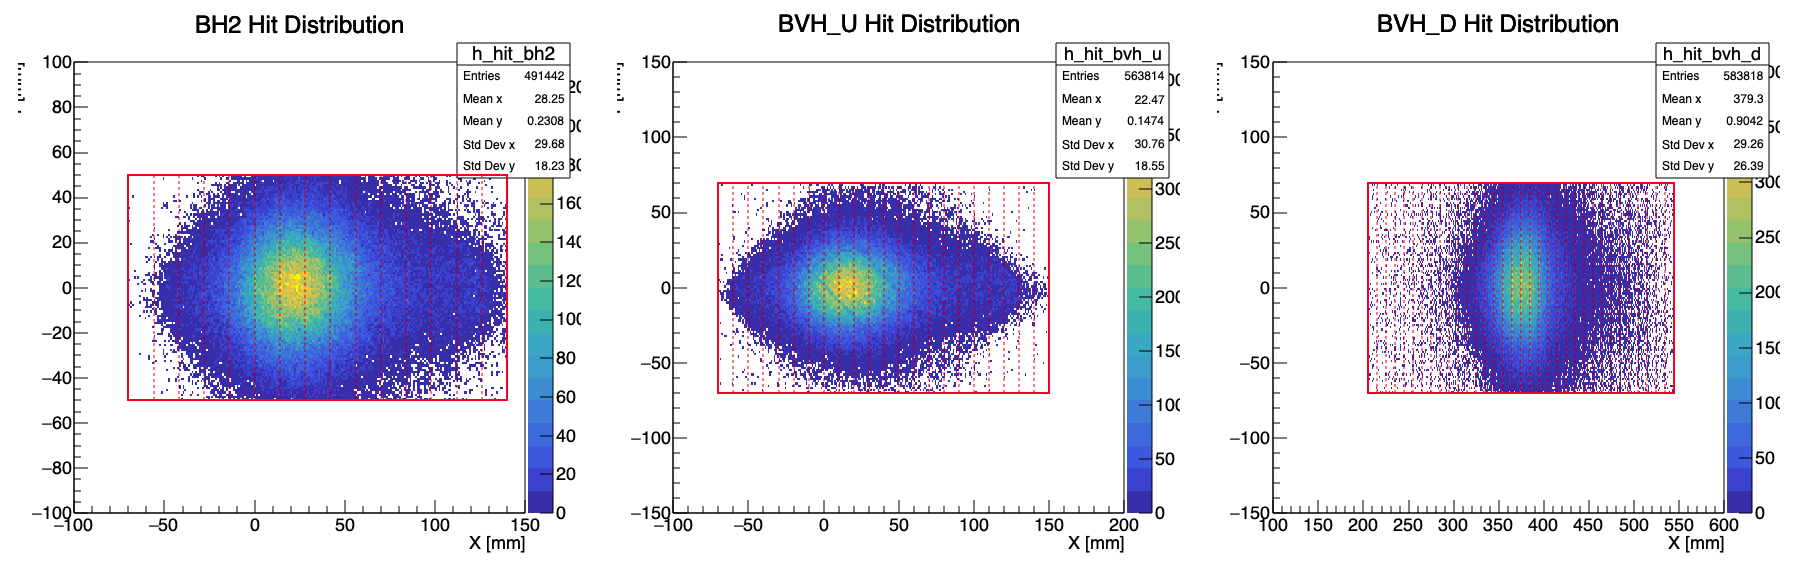
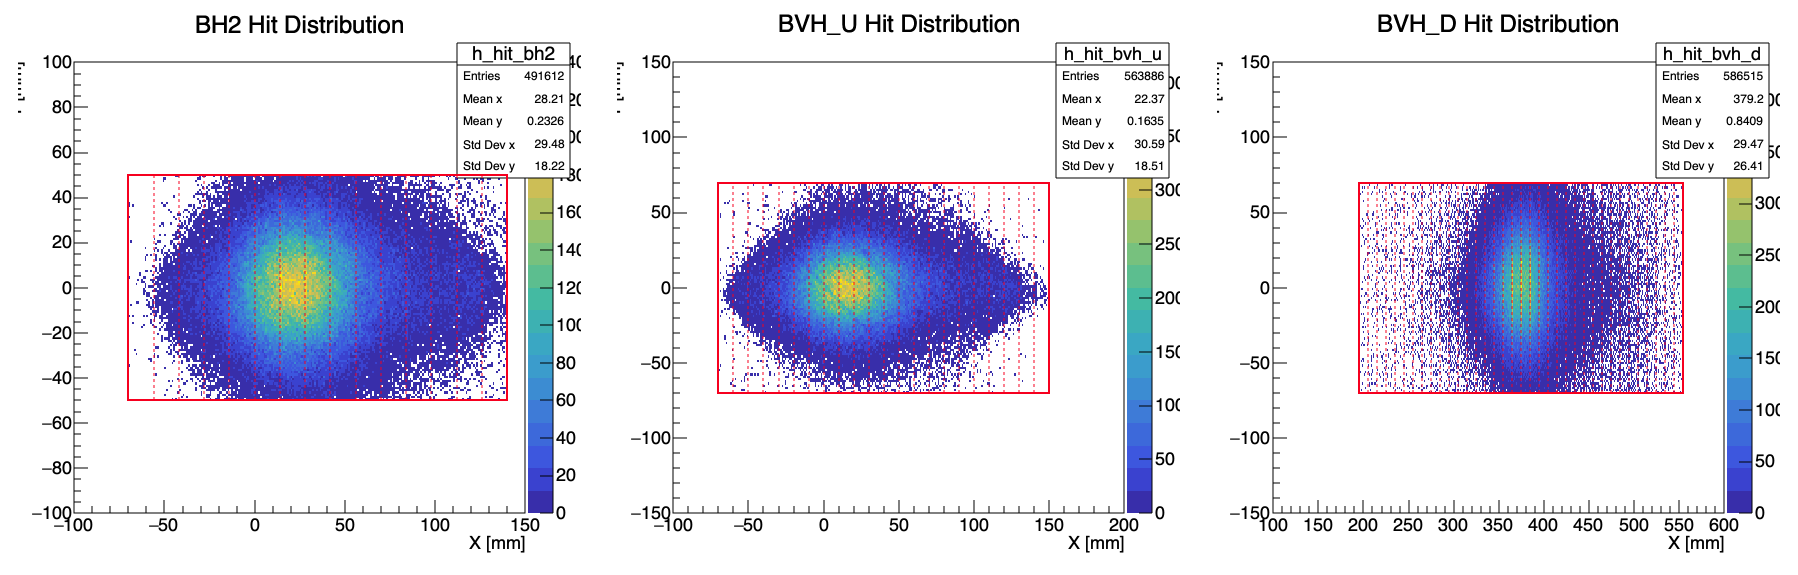
38, 375

diff --git a/root/BVH_3D.C b/root/BVH_3D.C
@@ -41,7 +41,7 @@
 // -------- Detector Segmentation --------
 static const int N_BH2  = 15; // 0..14
 static const int N_BVHU = 22; // 0..21
-static const int N_BVHD = 34; // 0..31
+static const int N_BVHD = 36; // 0..31
 
 // -------- Helper: unique segment indices passing e-dep cut --------
 static inline void get_unique_hits(const std::vector<TParticle>* v,
@@ -62,7 +62,7 @@ static inline void get_unique_hits(const std::vector<TParticle>* v,
 }
 
 // ================== Main Analysis Function ==================
-void BVH_3D(const char* fname = "E45_segment_34_375.root",
+void BVH_3D(const char* fname = "E45_segment_36_375.root",
             double ecutBH2MeV = 0.10,
             double ecutUMeV   = 0.04,
             double ecutDMeV   = 0.04,
@@ -286,6 +286,6 @@ gInterpreter->GenerateDictionary("vector<TParticle>", "TParticle.h;vector");
 // ================== Convenience wrapper ==================
 void run_analysis() {
   int event_threshold = 1; // (1) change here to highlight bins >=300 counts
-  BVH_3D("E45_segment_34_375.root", 0.10, 0.04, 0.04, event_threshold);
+  BVH_3D("E45_segment_36_375.root", 0.10, 0.04, 0.04, event_threshold);
   std::cout << "[Config] Red boxes mark bins with counts >= " << event_threshold << "." << std::endl;
 }

diff --git a/root/view_detectors_BVH.C b/root/view_detectors_BVH.C
@@ -29,7 +29,7 @@ void draw_bvh_u_overlay(double center_x) { // ★ n=22 로 수정
 }
 
 void draw_bvh_d_overlay(double center_x) { // ★ n=40 유지
-  const double seg_w = 10.0, seg_h = 140.0; const int n_segs = 34;
+  const double seg_w = 10.0, seg_h = 140.0; const int n_segs = 36;
   const double total_w = n_segs*seg_w, start_x = center_x - total_w/2.0;
   auto *outline = new TBox(start_x, -seg_h/2., start_x+total_w, seg_h/2.);
   outline->SetFillStyle(0); outline->SetLineColor(kRed); outline->SetLineWidth(2); outline->Draw("SAME");
@@ -44,7 +44,7 @@ void view_detectors_BVH() {
   gStyle->SetOptStat(1111);
   gStyle->SetPalette(kBird);
 
-  TFile *f = TFile::Open("E45_segment_34_375.root","READ");
+  TFile *f = TFile::Open("E45_segment_36_375.root","READ");
   if (!f || f->IsZombie()) { Error("view_detectors_BVH","cannot open file"); return; }
   auto *tree = (TTree*)f->Get("g4hyptpc");
   if (!tree) { Error("view_detectors_BVH","tree g4hyptpc not found"); return; }
